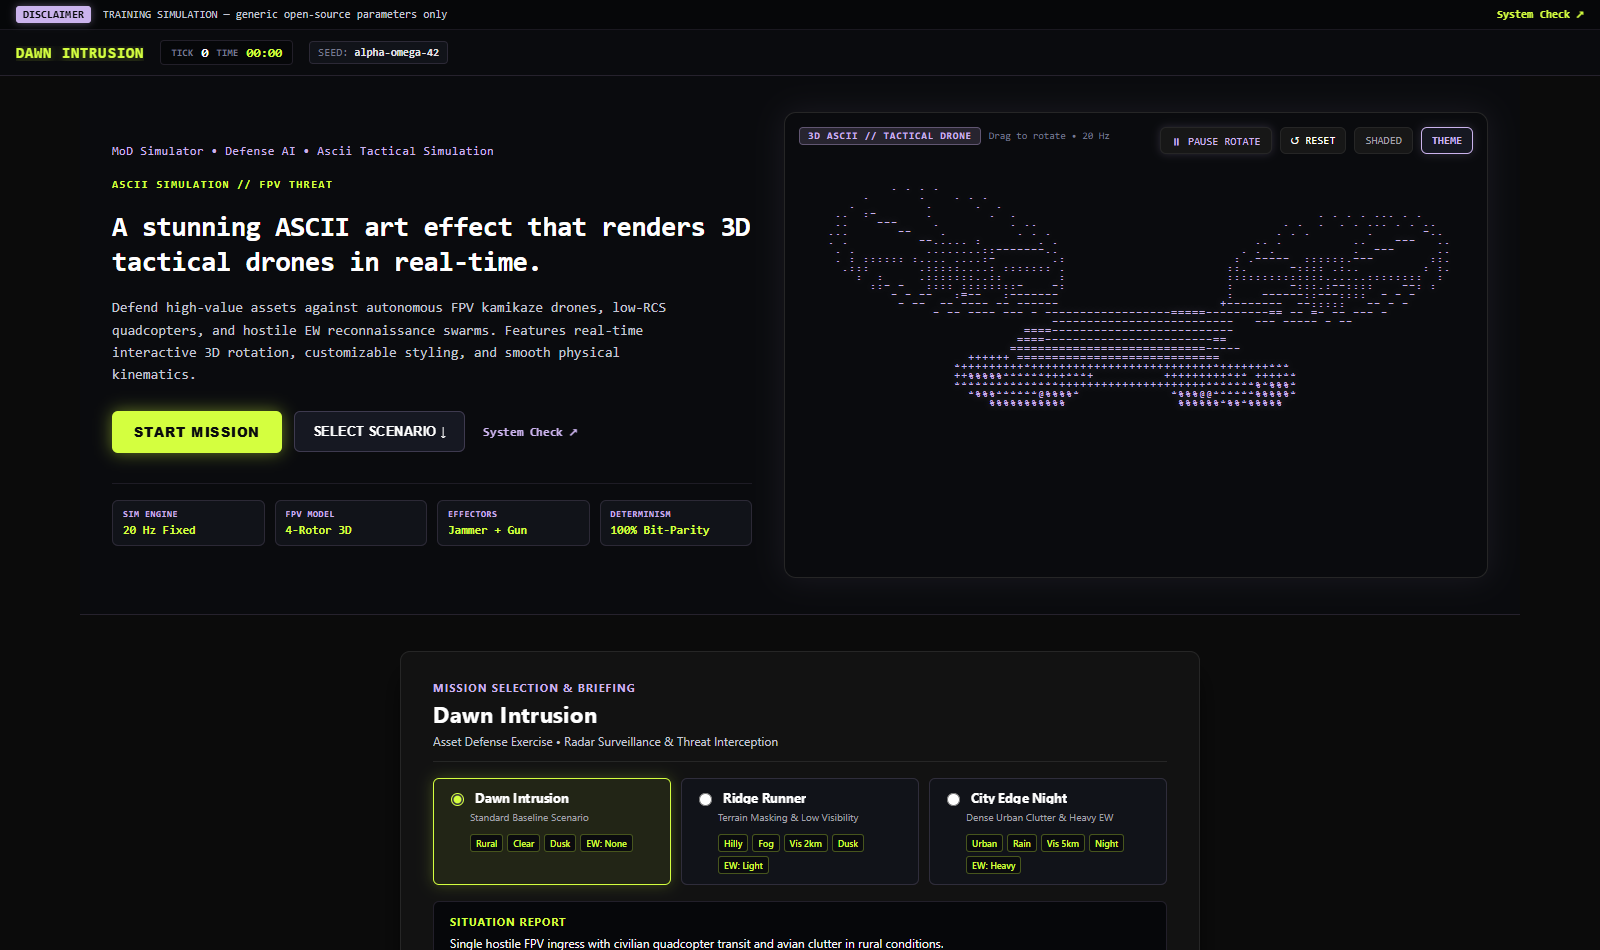
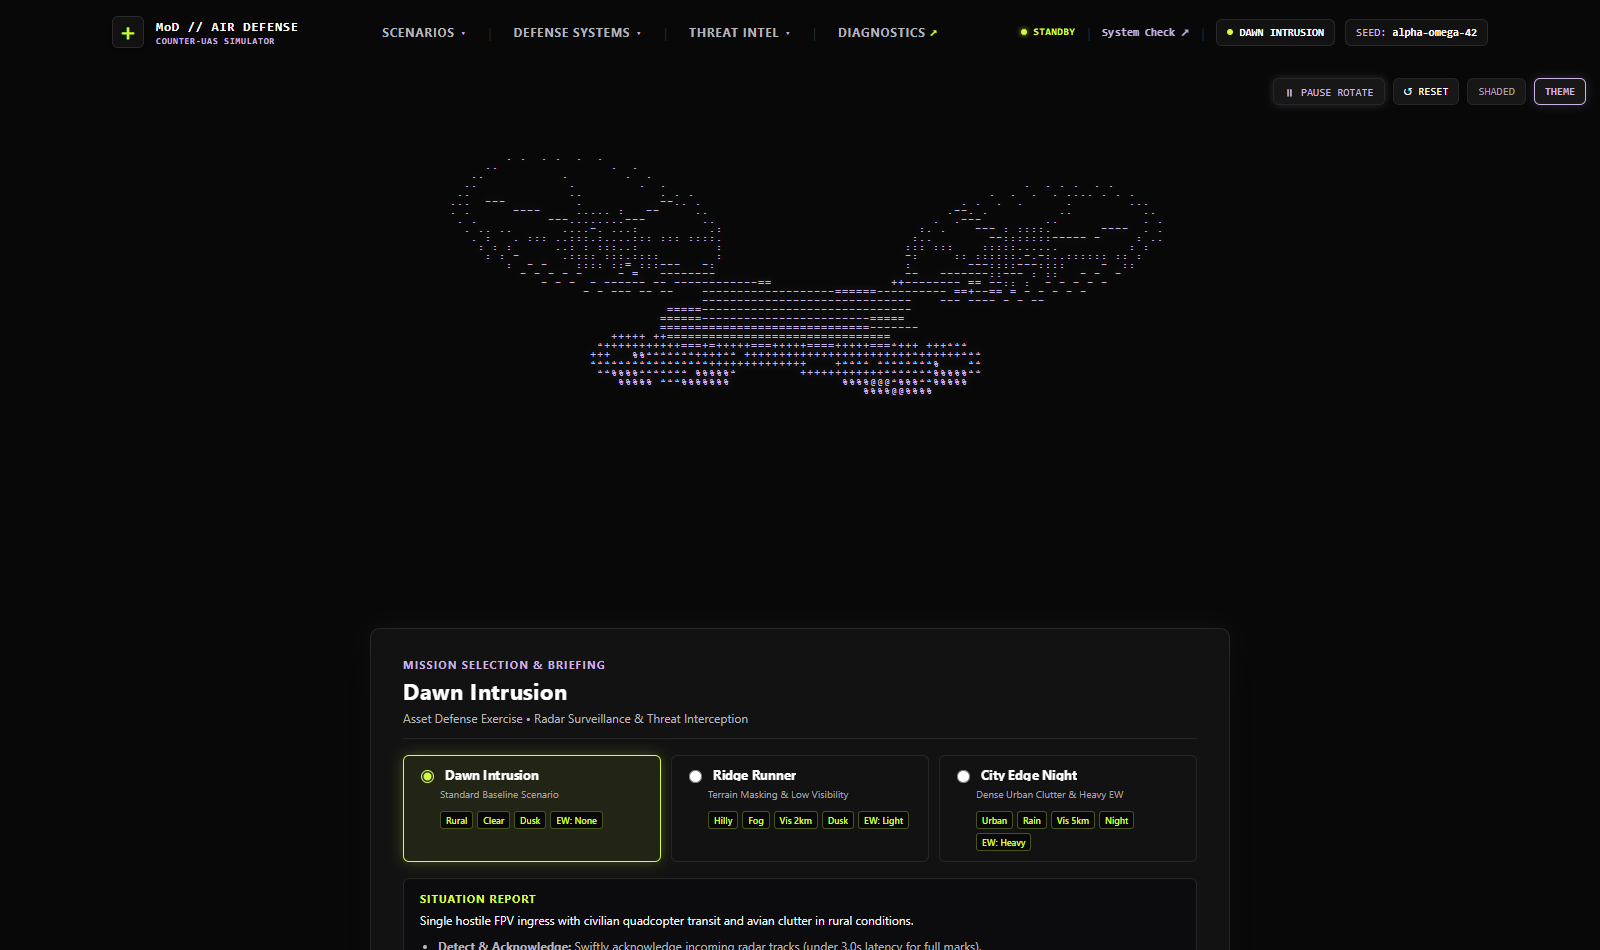
fix(ui): remove boxed container, borders, and shadows from drone hero section

diff --git a/src/app/components/DroneHeroSection.tsx b/src/app/components/DroneHeroSection.tsx
@@ -4,11 +4,11 @@ import { DroneAsciiSimulation } from './DroneAsciiSimulation.js';
 export function DroneHeroSection(): React.JSX.Element {
   return (
     <section style={styles.heroSection}>
-      {/* Full-Width 3D Tactical Drone ASCII Canvas Container */}
+      {/* Full-Width 3D Tactical Drone ASCII Canvas Container — Seamless with page background */}
       <div style={styles.canvasWrapper}>
         <DroneAsciiSimulation
           color="#cbb3e8"
-          backgroundColor="#080808"
+          backgroundColor="transparent"
           fontSize={10}
           autoRotate={true}
           rotationSpeed={0.012}
@@ -25,17 +25,18 @@ const styles: Record<string, React.CSSProperties> = {
     flexDirection: 'column',
     alignItems: 'center',
     backgroundColor: 'transparent',
-    borderBottom: 'none',
+    border: 'none',
     boxSizing: 'border-box',
-    padding: '4px 24px 24px 24px',
+    padding: '0 0 16px 0',
   },
   canvasWrapper: {
     position: 'relative',
     width: '100%',
-    maxWidth: '1440px',
     height: '520px',
-    borderRadius: '12px',
+    borderRadius: '0',
+    border: 'none',
+    boxShadow: 'none',
+    backgroundColor: 'transparent',
     overflow: 'hidden',
-    boxShadow: '0 20px 40px rgba(0, 0, 0, 0.8), 0 0 25px rgba(203, 179, 232, 0.08)',
   },
 };

diff --git a/src/app/components/DroneAsciiSimulation.tsx b/src/app/components/DroneAsciiSimulation.tsx
@@ -328,9 +328,9 @@ export function DroneAsciiSimulation({
         width: '100%',
         height: '100%',
         minHeight: '480px',
-        backgroundColor,
-        borderRadius: '12px',
-        border: '1px solid rgba(203, 179, 232, 0.16)',
+        backgroundColor: backgroundColor || 'transparent',
+        borderRadius: '0',
+        border: 'none',
         overflow: 'hidden',
         display: 'flex',
         flexDirection: 'column',
@@ -338,7 +338,7 @@ export function DroneAsciiSimulation({
         justifyContent: 'center',
         userSelect: 'none',
         cursor: isDraggingRef.current ? 'grabbing' : 'grab',
-        boxShadow: `0 0 35px rgba(0, 0, 0, 0.8), 0 0 20px ${activeColor}15`,
+        boxShadow: 'none',
         ...style,
       }}
     >
